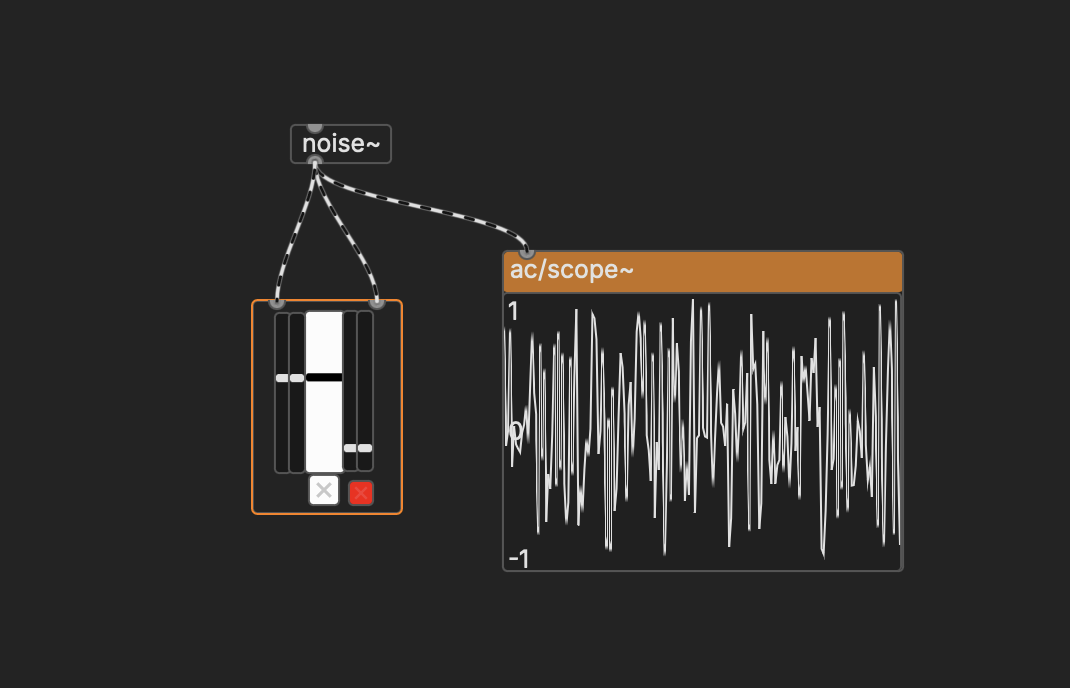
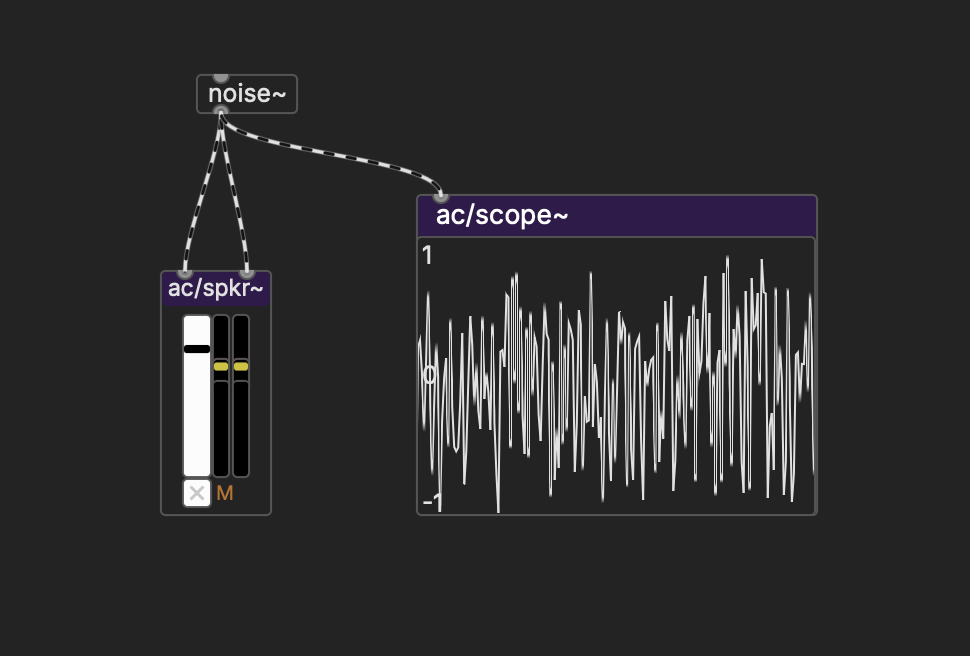
finished screenshots

Changed region(s): [[0.4021, 0.2744, 0.866, 0.8232], [0.1546, 0.0915, 0.3711, 0.7927], [0.3402, 0.2439, 0.433, 0.3049]]

diff --git a/workshops/pd/sampling.md b/workshops/pd/sampling.md
@@ -7,7 +7,7 @@ However, Pd is also capable of loading audio data and using it like a signal. It
 
 ## Preparing a sample
 
-To begin with, we'll need some audio to work with. We can use Audacity for this. After opening the application, use "File" -> "Import" -> "Audio..." and navigate to the audio you want to use. This could be something you recorded, of course, but this example will use a musical track. This is an .m4a file, but Audacity should be able to convert it.
+To begin with, we'll need some audio to work with. We can use [Audacity](https://www.audacityteam.org/download/) for this. After installing and opening the application, use "File" -> "Import" -> "Audio..." and navigate to the audio you want to use. This could be something you recorded, of course, but this example will use a musical track. This is an .m4a file, but Audacity should be able to convert it.
 
 <p align="center">
   <img src="media/audacity_import_1.png" width=600 /><br />

diff --git a/TODO.md b/TODO.md
@@ -1,10 +1,5 @@
 ## now
 
-REDO SCREENSHOTS, shit
-
-link to download/ac
-link to download audacity
-
 
 ## materials 
 
